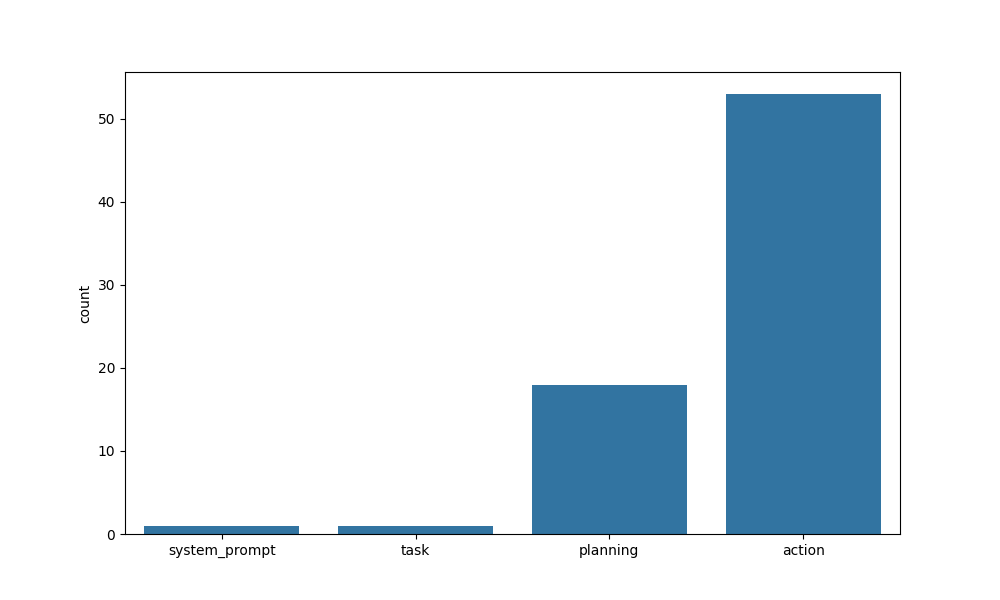
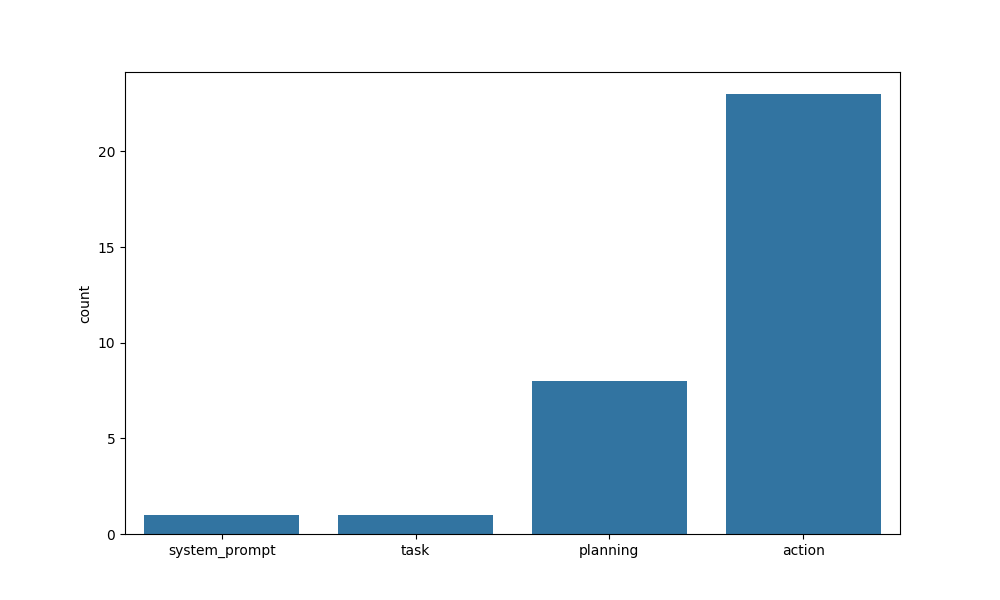
pushing updated analysis and some vizs

diff --git a/analysis/main.py b/analysis/main.py
@@ -55,10 +55,13 @@ def plot_logs(logs, animal, run_name):
 def plot_tool_calls(logs, animal, run_name):
     tool_calls = []
     for log in logs:
-        if (log['type'] == 'action'):
-            if log['start_time'] is None:
-                continue
-            tool_calls.append(log['tool_call']['name'])
+        try: 
+            if (log['type'] == 'action'):
+                if log['start_time'] is None:
+                    continue
+                tool_calls.append(log['tool_call']['name'])
+        except Exception as e:
+            print(e)
 
     plt.figure(figsize=(10, 6))
     sns.countplot(x=tool_calls)
@@ -111,11 +114,27 @@ def visualize_graph(graph, run_name, animal):
     Args:
         graph (networkx.DiGraph): A directed acyclic graph.
     """
-    pos = nx.spring_layout(graph)  # Layout for positioning nodes
-    plt.figure(figsize=(12, 8))
+    # Use hierarchical layout to separate nodes vertically
+    pos = nx.kamada_kawai_layout(graph)  # Better separation than spring_layout
+    plt.figure(figsize=(20, 12))
     
-    # Draw the nodes and edges
-    nx.draw(graph, pos, with_labels=True, node_color='lightblue', edge_color='gray', node_size=2000, font_size=10)
+    # Get first and last nodes
+    nodes = list(graph.nodes())
+    first_node = nodes[0]
+    last_node = nodes[-1]
+    
+    # Create color map for nodes
+    node_colors = ['lightgreen' if node == first_node else 'red' if node == last_node 
+                  else 'lightblue' for node in graph.nodes()]
+    
+    # Draw the nodes and edges with increased spacing
+    nx.draw(graph, pos, with_labels=True, node_color=node_colors,
+            edge_color='gray', node_size=2000, font_size=10,
+            width=2, arrows=True, arrowsize=20,
+            node_shape='o',  # Circular nodes
+            alpha=0.9,       # Slight transparency
+            min_target_margin=30,  # Minimum margin between nodes
+            min_source_margin=30)
     
     # Draw edge labels (optional: include start and end times as labels)
     # edge_labels = {(u, v): f"{graph.nodes[v]['start_time']} → {graph.nodes[v]['end_time']}" 
@@ -129,15 +148,18 @@ def visualize_graph(graph, run_name, animal):
 def return_tuples(logs):
     tools = []
     for log in logs:
-        if log['type'] == 'action':
-            if log['start_time'] is None:
-                continue
-            tools.append((log['tool_call']['name'], log['start_time'], log['end_time']))
+        try:    
+            if log['type'] == 'action':
+                if log['start_time'] is None:
+                    continue
+                tools.append((log['tool_call']['name'], log['start_time'], log['end_time']))
+        except Exception as e:
+            print(e)
     return tools
 
 if __name__ == '__main__':
     animals = ['giraffe', 'monkey']
-    for run_name in ['humor_2_agents_4o_2', 'humor_2_agents_4o_3', 'humor_2_agents_4o_1']:
+    for run_name in ['humor_2_agents_claude_4', 'humor_2_agents_4o_2', 'humor_2_agents_4o_3', 'humor_2_agents_4o_1']:
         for animal in animals:
             logs = load_logs(run_name, animal)
             plot_logs(logs, animal, run_name)
